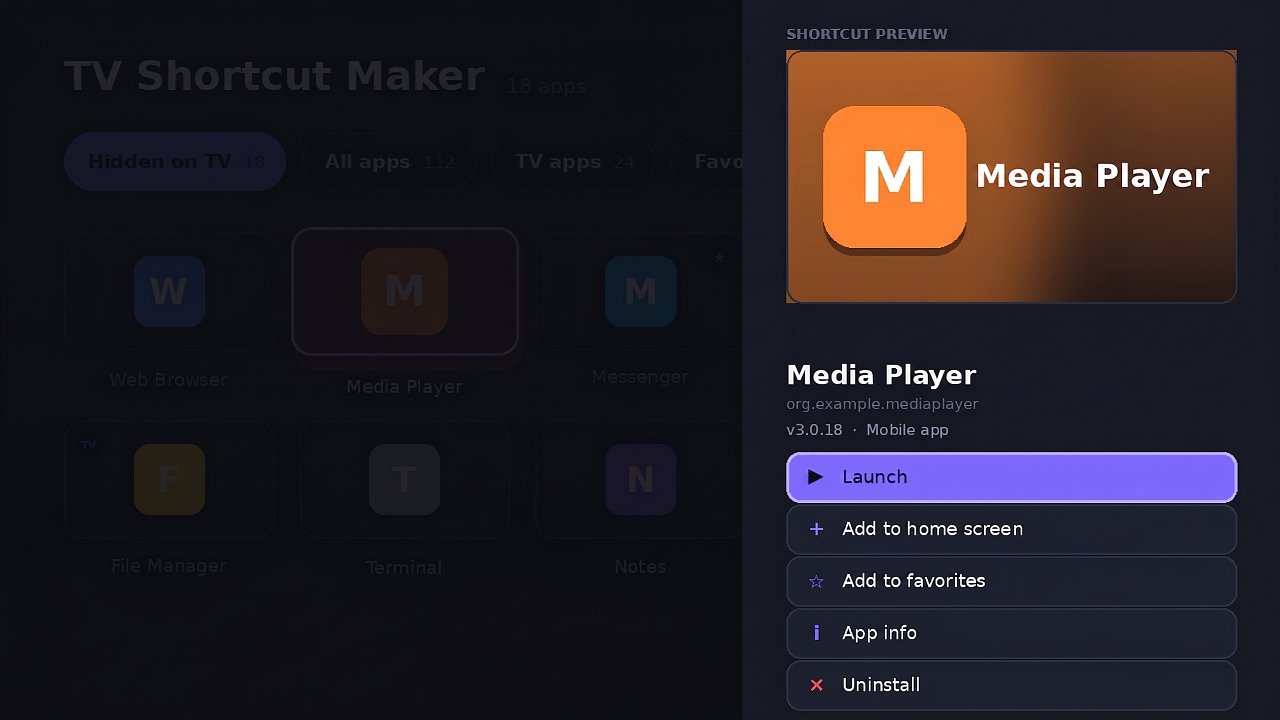
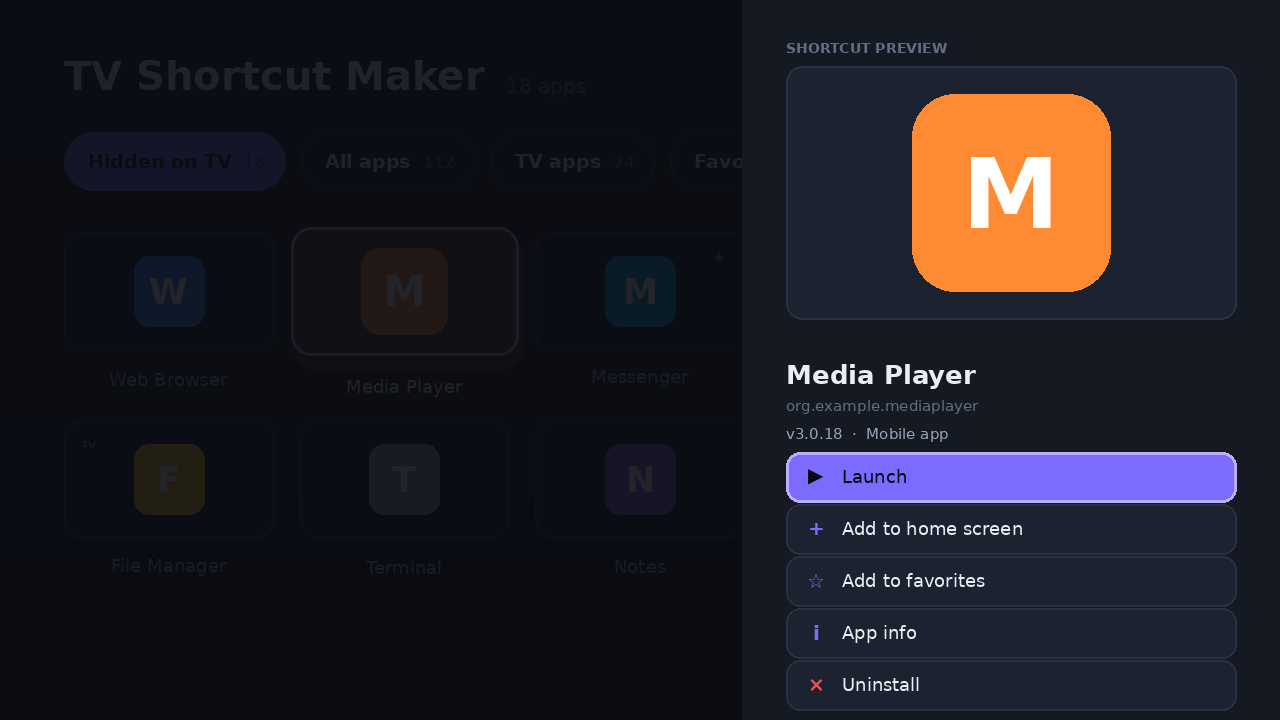
Add files via upload

diff --git a/README.md b/README.md
@@ -37,7 +37,7 @@
 | 🔍 **Полное сканирование** | Список всех установленных пакетов, включая приложения без leanback-точки входа |
 | 🎯 **Умные фильтры** | `Скрытые на ТВ` · `Все приложения` · `ТВ-приложения` · `Избранное`, у каждого — счётчик |
 | 🖼 **Генератор баннеров** | Извлекает иконку из APK и компонует её на холсте 16:9 в тройном разрешении |
-| 🎨 **Три стиля баннера** | Градиент по акцентному цвету (берётся из иконки через Palette), тёмный минимализм, только иконка |
+| 🎨 **Иконка как есть** | Оригинальная иконка приложения без градиентов и подписей — ярлык неотличим от обычного приложения |
 | 📌 **Закреплённые ярлыки** | `ShortcutManagerCompat.requestPinShortcut()` через activity-трамплин |
 | 🚀 **Встроенная панель** | Запуск чего угодно напрямую, даже если лаунчер отказывается закреплять ярлыки |
 | ⭐ **Избранное** | Хранится локально, всегда в одном нажатии пульта |
@@ -48,9 +48,9 @@
 
 > Замените заглушки реальными снимками: `adb exec-out screencap -p > shot.png`
 
-| Сетка приложений | Панель деталей | Сгенерированный баннер |
+| Сетка приложений | Панель сведений | Иконка ярлыка |
 |---|---|---|
-| ![Сетка](docs/screenshots/screen1.png) | ![Детали](docs/screenshots/screen2.png) | ![Баннер](docs/screenshots/screen3.png) |
+| ![Сетка](docs/screenshots/screen1.png) | ![Сведения](docs/screenshots/screen2.png) | ![Иконка](docs/screenshots/screen3.png) |
 
 ## 🏗 Архитектура
 

diff --git a/README.en.md b/README.en.md
@@ -36,7 +36,7 @@ It also works as a fast, good-looking app drawer on its own.
 | 🔍 **Full device scan** | Lists every installed package, including apps with no leanback entry point |
 | 🎯 **Smart filters** | `Hidden on TV` · `All apps` · `TV apps` · `Favorites`, each with a live count |
 | 🖼 **Banner generator** | Extracts the icon from the APK and composes it onto a 16:9 canvas at 3× resolution |
-| 🎨 **Three banner styles** | Accent gradient (colour sampled from the icon via Palette), dark minimal, or icon-only |
+| 🎨 **Icon as-is** | The app's original icon, no gradients or overlaid text — the shortcut looks like a normal app |
 | 📌 **Pinned shortcuts** | `ShortcutManagerCompat.requestPinShortcut()` with a launch-proxy trampoline |
 | 🚀 **Built-in drawer** | Launch anything directly, even when the launcher refuses to pin shortcuts |
 | ⭐ **Favorites** | Persisted locally, always one D-Pad press away |
@@ -47,9 +47,9 @@ It also works as a fast, good-looking app drawer on its own.
 
 > Replace these placeholders with real captures (`adb exec-out screencap -p > shot.png`).
 
-| App grid | Detail panel | Generated banner |
+| App grid | Detail panel | Shortcut icon |
 |---|---|---|
-| ![Grid](docs/screenshots/screen1.png) | ![Detail](docs/screenshots/screen2.png) | ![Banner](docs/screenshots/screen3.png) |
+| ![Grid](docs/screenshots/screen1.png) | ![Detail](docs/screenshots/screen2.png) | ![Icon](docs/screenshots/screen3.png) |
 
 ## 🏗 Architecture
 
